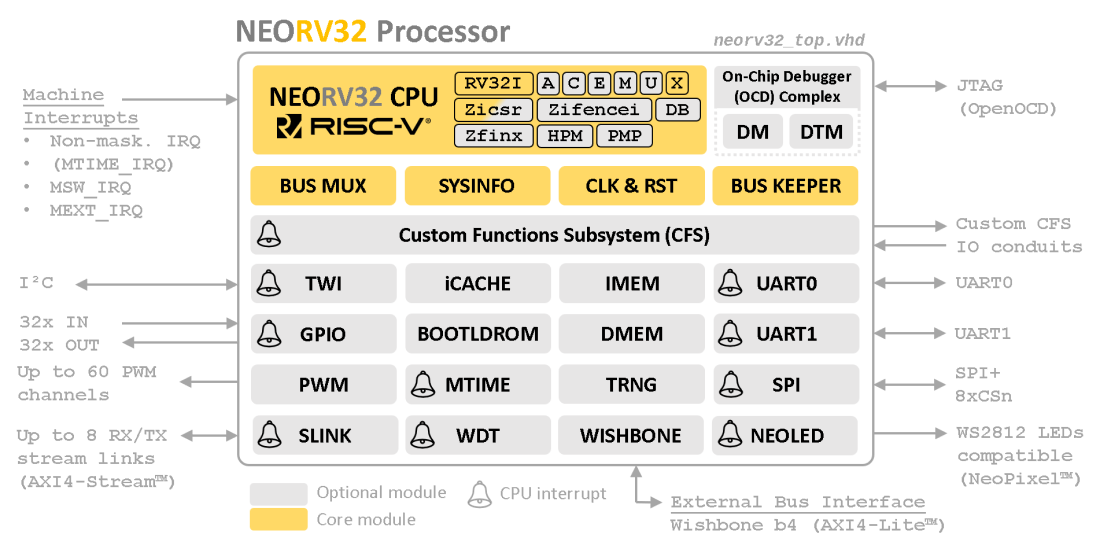
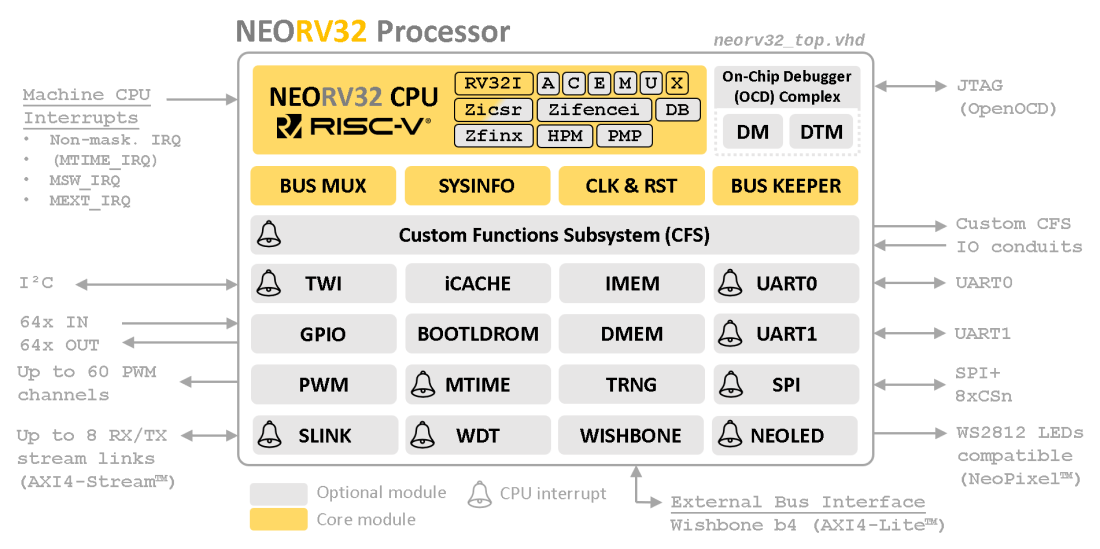
[docs] [rtl] increased GPIO ports from 32-bit to 64-bit; removed pin-change interrupt

diff --git a/CHANGELOG.md b/CHANGELOG.md
@@ -24,6 +24,7 @@ defined by the `hw_version_c` constant in the main VHDL package file [`rtl/core/
 
 | Date (*dd.mm.yyyy*) | Version | Comment |
 |:----------:|:-------:|:--------|
+| 30.06.2021 | 1.5.7.8 | :warning: increased GPIO port size from 32-bit to 64-bit; relocated GPIO base address; removed GPIO.input pin-change interrupt |
 | 29.06.2021 | 1.5.7.7 | :sparkles: added new processor module **stream link interface (SLINK)**: up to 8 individual RX and TX stream links, comptaible to AXI4-Stream base protocol; added software driver files; added documentation |
 | 27.06.2021 | 1.5.7.6 | :bug: fixed bug in CFS (custom functions subsystem) address map layout |
 | 27.06.2021 | 1.5.7.5 | :warning: removed numerically-controlled oscillator (NCO, `neorv32_nco.vhd`) module as it appears to be an over-engineered clock-generator without many use cases (if you really need this module, you can wrap it within the custom functions subsystem CFS) |
